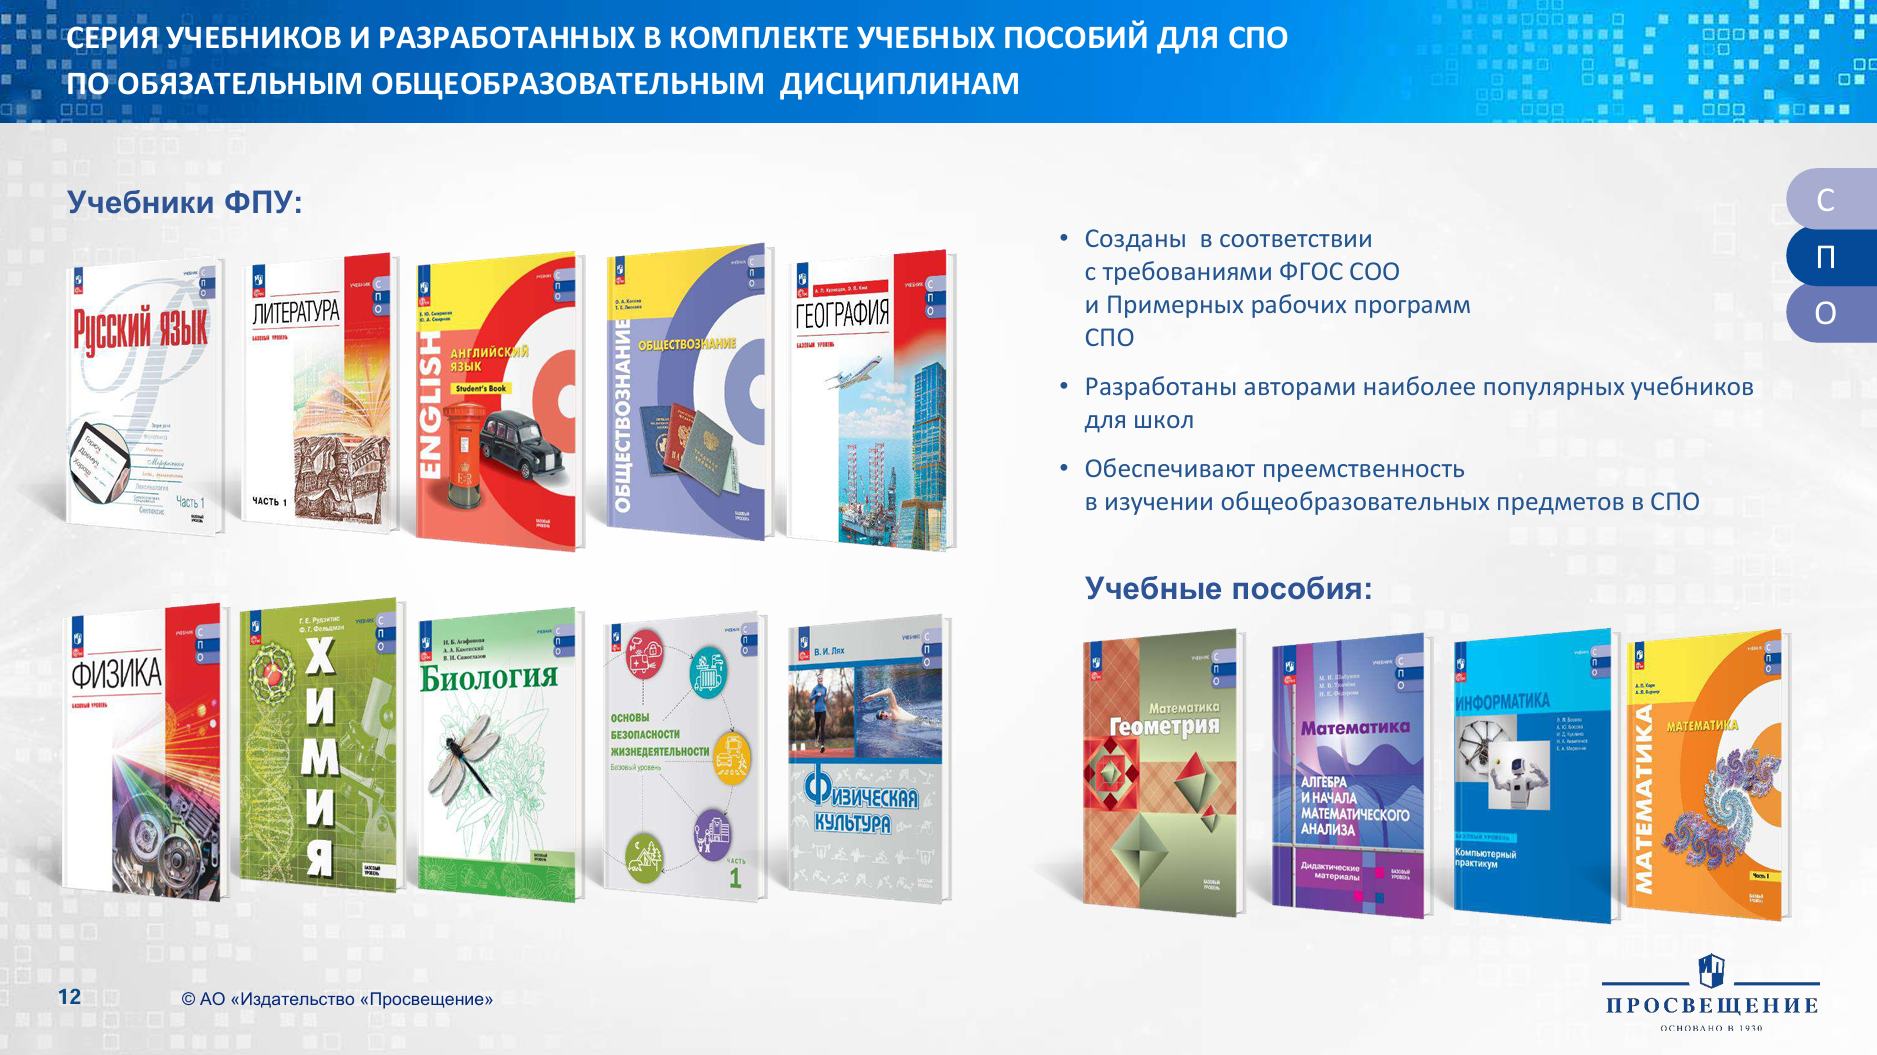
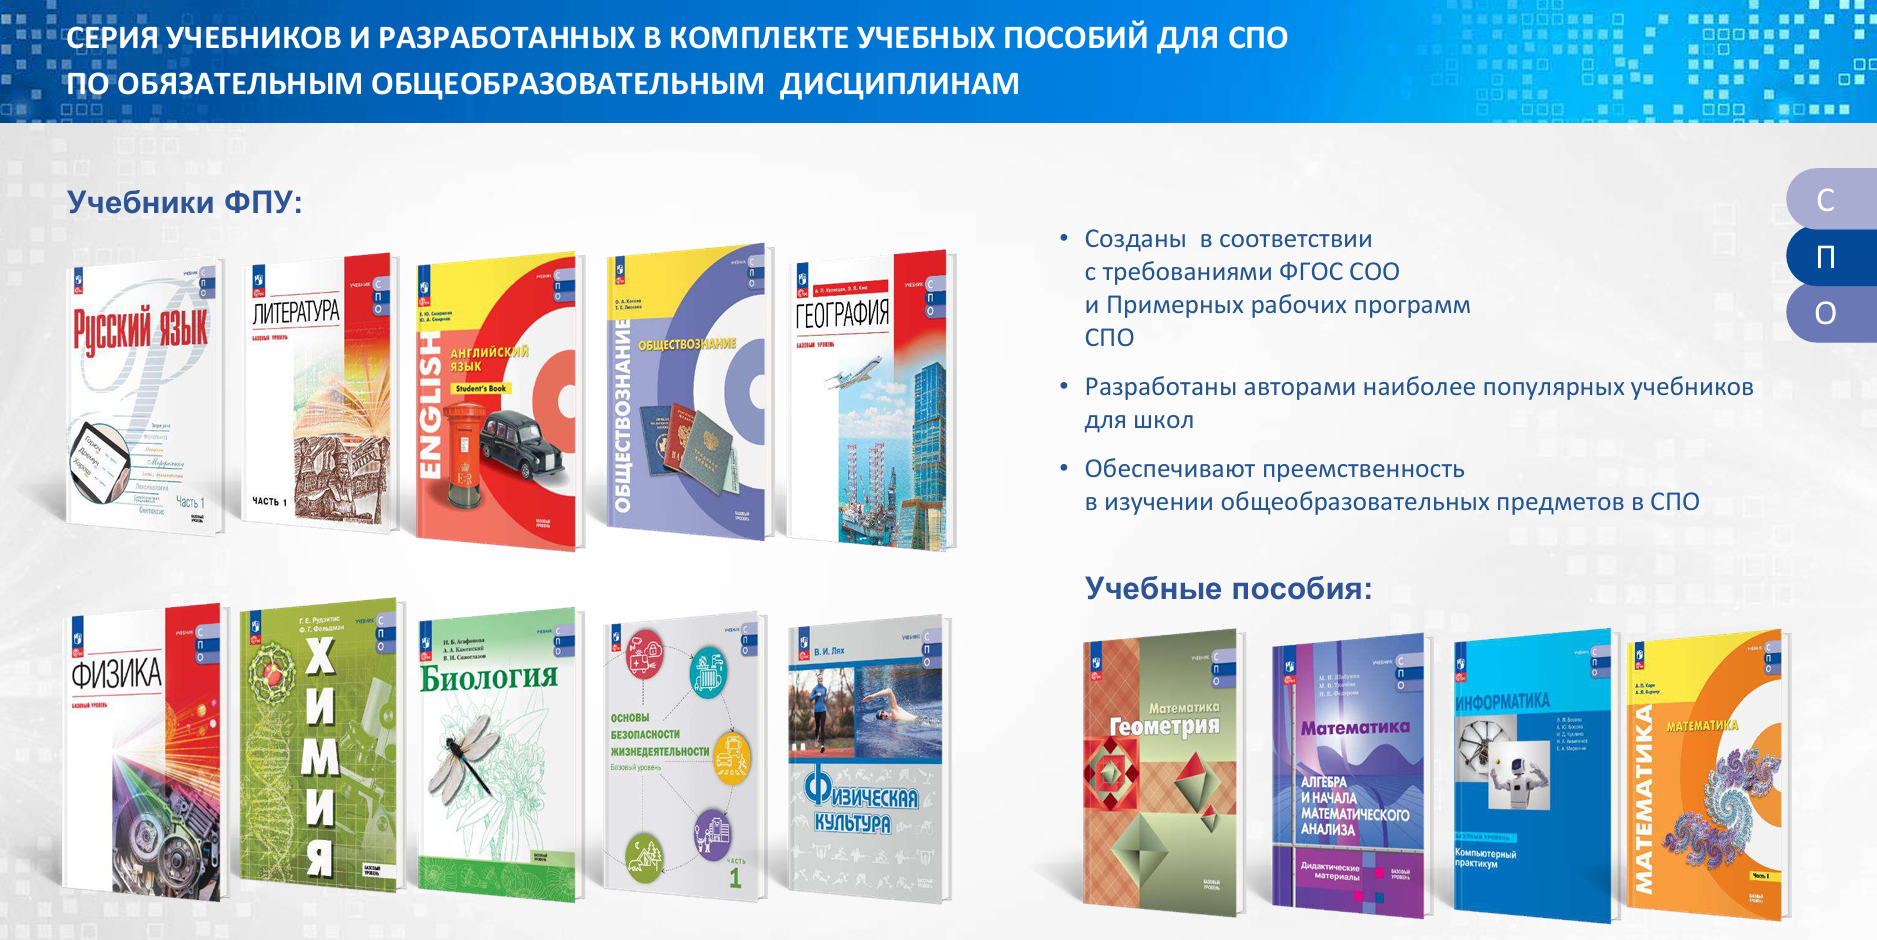
Update prosv.html

diff --git a/prosv.html b/prosv.html
@@ -23,22 +23,24 @@
         <span class="breadcrumbs__current">Электронные учебники «Просвещение»</span>
     </nav>
 
-    <!-- Логотип «Просвещение» по центру -->
     <div class="prosv-header">
         <div class="prosv-logo" role="img" aria-label="Издательство Просвещение"></div>
     </div>
 
     <h1>Электронные учебники для учреждений СПО</h1>
 
-    <!-- Определения оформлены как 2 абзаца -->
-    <p><strong>Электронная форма учебника (ЭФУ)</strong> — электронное издание, соответствующее по структуре, содержанию и художественному оформлению печатной форме учебника, содержащее мультимедийные элементы и интерактивные ссылки, расширяющие и дополняющие содержание учебника.</p>
-
-    <p><strong>Коллекция ЭФУ</strong> — сборник электронных учебников, позволяющий обеспечить современное содержание по учебным дисциплинам, обязательным к изучению в рамках СПО. Распределение учебного материала соответствует ФГОС СОО и ФОП СОО.</p>
-
+    <p><strong>Электронная форма учебника (ЭФУ)</strong> — электронное издание, соответствующее по структуре, содержанию
+        и художественному оформлению печатной форме учебника, содержащее мультимедийные элементы и интерактивные ссылки,
+        расширяющие и дополняющие содержание учебника.</p>
+    <p><strong>Коллекция ЭФУ</strong> — сборник электронных учебников, позволяющий обеспечить современное содержание по
+        учебным дисциплинам, обязательным к изучению в рамках СПО.</p>
+    <p>Ключевые преимущества:</p>
     <ul>
-        <li>ЭФУ можно открывать в специальном приложении или на портале издательства.</li>
-        <li>Удобный и интуитивно понятный интерфейс с возможностью работы в онлайн- и офлайн-режимах.</li>
-        <li>Форматы в общедоступном виде, не имеющие лицензионных ограничений для участника образовательного процесса.</li>
+        <li>полное покрытие требований ФГОС СОО и ФОП СОО:
+            100% предметов общеобразовательного цикла за 10–11 классы</li>
+        <li>профильные учебные пособия: всего 101 наименование</li>
+        <li>неограниченный доступ для всех студентов и преподавателей учебного заведения</li>
+        <li>ЭФУ можно использоваться на портале издательства либо на платформе <a href="https://digital.prosv.ru/user" target="_blank" class="text-link">«Лекта»</a>, в том числе в режиме оффлайн</li>
     </ul>
 
     <!-- Иллюстрация 12-го слайда по центру на всю ширину -->
@@ -50,11 +52,14 @@
     <div class="prosv-pdf-bar">
         <div>
             <h2>Презентация коллекции для СПО</h2>
-            <p class="prosv-pdf-desc">Официальные материалы издательства «Просвещение» на 2026 учебный год</p>
+            <p class="prosv-pdf-desc">Официальные материалы издательства «Просвещение»</p>
         </div>
 
-        <a href="assets/prosv/ФПУ Просвещение для СПО-13.03.2026.pdf" download class="Btn Btn--prosv" title="Скачать презентацию (PDF)">
-            <svg class="svgIcon" viewBox="0 0 384 512"><use href="#icon-download"></use></svg>
+        <a href="assets/prosv/ФПУ Просвещение для СПО-13.03.2026.pdf" download class="Btn Btn--prosv"
+           title="Скачать презентацию (PDF)">
+            <svg class="svgIcon" viewBox="0 0 384 512">
+                <use href="#icon-download"></use>
+            </svg>
             <span class="icon2"></span>
             <span class="tooltip">Скачать PDF</span>
         </a>

diff --git a/components/footer.html b/components/footer.html
@@ -19,7 +19,7 @@
                     <span class="brand-ip">ИП</span>
                     <span class="brand-name">Пугин Е.А.</span>
                 </a>
-                <p class="footer-text">Ваш надежный партнёр по поставке электронных учебников
+                <p class="footer-text">Ваш надежный партнёр по поставке электронных учебников издательства
                     <a href="https://digital.prosv.ru" target="_blank" class="text-link">«Просвещение»</a>,
                     лицензий на программные продукты и по разработке ПО на заказ</p>
             </div>

diff --git a/index.html b/index.html
@@ -88,7 +88,7 @@
               <span class="circle" aria-hidden="true">
                 <span class="icon arrow"></span>
               </span>
-                        <span class="button-text">Перейти на Axentius.ml</span>
+                        <span class="button-text">Перейти на Axentius</span>
                     </a>
                 </div>
             </div>

diff --git a/assets/css/components.css b/assets/css/components.css
@@ -299,6 +299,7 @@
   line-height: 1.7;
 }
 .faq__item.active .faq__body {
+  max-height: 1000px;
   padding-top: 16px;
 }
 
